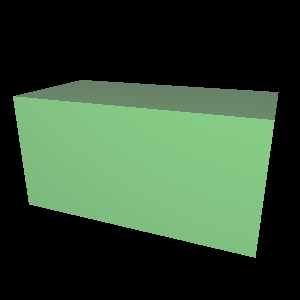
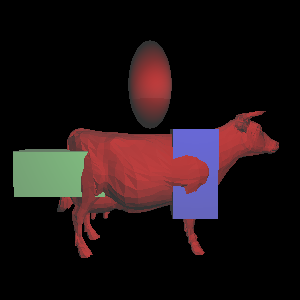
Mesh intersections and sample scene

diff --git a/wall-e/src/scene/primitives/triangle.rs b/wall-e/src/scene/primitives/triangle.rs
@@ -1,4 +1,4 @@
-use nalgebra::Vector3;
+use nalgebra::{Unit, Vector3};
 
 use crate::{
     prelude::{Intersection, Ray},
@@ -20,8 +20,43 @@ impl Triangle {
 }
 
 impl Collidable for Triangle {
-    fn intersect(&self, _ray: &Ray) -> Option<Intersection> {
-        todo!()
-        // Some(Intersection::new(ray.clone(), None, t, normal))
+    fn intersect(&self, ray: &Ray) -> Option<Intersection> {
+        let edge1 = self.p2 - self.p1;
+        let edge2 = self.p3 - self.p1;
+
+        let cross_dir_edge2 = ray.direction().cross(&edge2);
+        let det = edge1.dot(&cross_dir_edge2);
+
+        const EPSILON: f32 = 1e-10;
+        if det.abs() < EPSILON {
+            return None; // Parallel or lies in triangle plane
+        }
+
+        let inv_det = 1.0 / det;
+        let to_origin = ray.origin() - self.p1;
+        let u = inv_det * to_origin.dot(&cross_dir_edge2);
+
+        if u < 0.0 || u > 1.0 {
+            return None;
+        }
+
+        let cross_origin_edge1 = to_origin.cross(&edge1);
+        let v = inv_det * ray.direction().dot(&cross_origin_edge1);
+
+        if v < 0.0 || u + v > 1.0 {
+            return None;
+        }
+
+        let t = inv_det * edge2.dot(&cross_origin_edge1);
+        if t > EPSILON {
+            return Some(Intersection::new(
+                ray.clone(),
+                None,
+                t,
+                Unit::new_normalize(edge1.cross(&edge2)),
+            ));
+        }
+
+        None
     }
 }

diff --git a/scripts/t2.py b/scripts/t2.py
@@ -26,7 +26,8 @@ g3.translate(0.0, 2.0, 0.0)
 g3.scale(1.0, 2.0, 1.0)
 g3.set_material(red)
 
-cow = Mesh("cow.obj")
+# cow = Mesh("cow.obj")
+cow = Mesh("buckyball.obj")
 cow.translate(0.0, 0.0, 0.0)
 cow.scale(1.0, 1.0, 1.0)
 cow.set_material(red)
@@ -35,9 +36,9 @@ cow.set_material(red)
 light = Light()
 light.translate(2.0, 4.0, -8.0)
 
-root.add_child(g1)
-root.add_child(g2)
-root.add_child(g3)
+# root.add_child(g1)
+# root.add_child(g2)
+# root.add_child(g3)
 root.add_child(cow)
 root.add_child(light)
 
@@ -49,7 +50,7 @@ scene.set_root(root)
 # ray_trace(scene, camera, 20, 20, "image.png")
 # ray_trace(scene, camera, 90, 90, "image.png")
 print("trace")
-ray_trace(scene, camera, 300, 300, "image.png")
-# ray_trace(scene, camera, 1000, 800, "image.png")
+# ray_trace(scene, camera, 300, 300, "image.png")
+ray_trace(scene, camera, 1000, 800, "image.png")
 
 copy_and_archive_image()

diff --git a/wall-e/src/scene/mesh.rs b/wall-e/src/scene/mesh.rs
@@ -25,7 +25,16 @@ impl Mesh {
 }
 
 impl Collidable for Mesh {
-    fn intersect(&self, _ray: &Ray) -> Option<Intersection> {
-        todo!()
+    fn intersect(&self, ray: &Ray) -> Option<Intersection> {
+        let mut intersection: Option<Intersection> = None;
+        for triangle in &self.triangles {
+            if let Some(hit) = triangle.intersect(ray) {
+                if intersection.is_none() || intersection.as_ref().unwrap().t() > hit.t() {
+                    intersection = Some(hit);
+                }
+            }
+        }
+
+        intersection
     }
 }

diff --git a/wall-e-py/src/lib.rs b/wall-e-py/src/lib.rs
@@ -109,7 +109,6 @@ impl PyMesh {
     fn new(mesh_name: String) -> Self {
         let mut path = PathBuf::from(MESH_PATH);
         path.push(mesh_name);
-        println!("{:?}", path);
         // assert!(path.exists() && path.is_file() && path.ends_with(".obj"));
         let mesh = Mesh::from_path(path);
 
